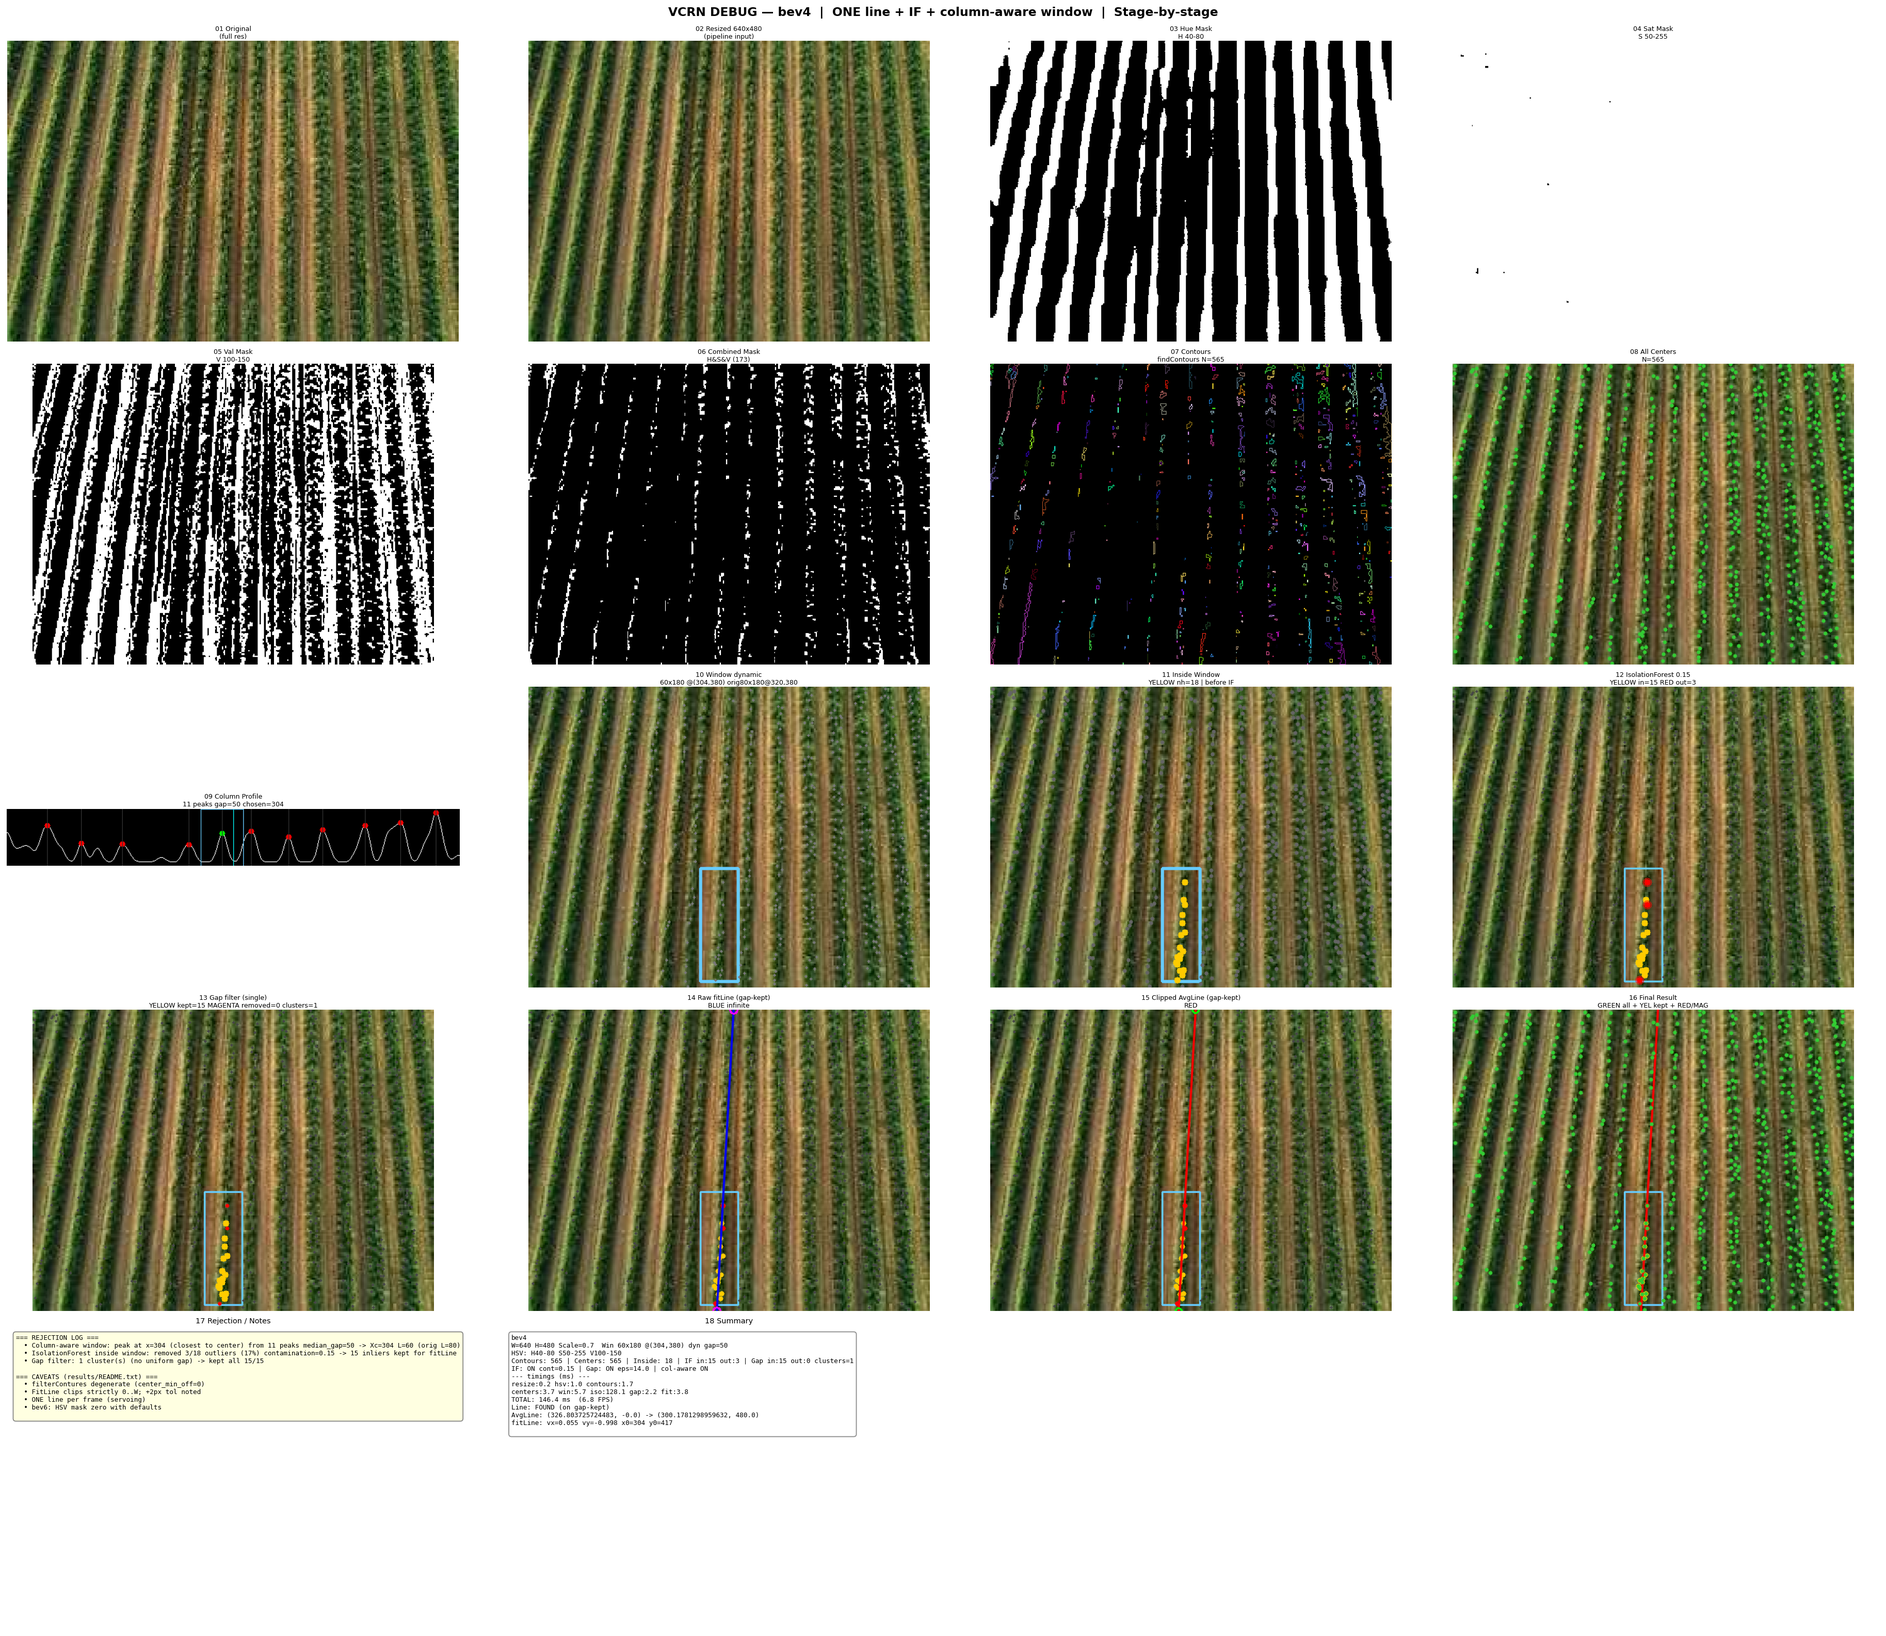
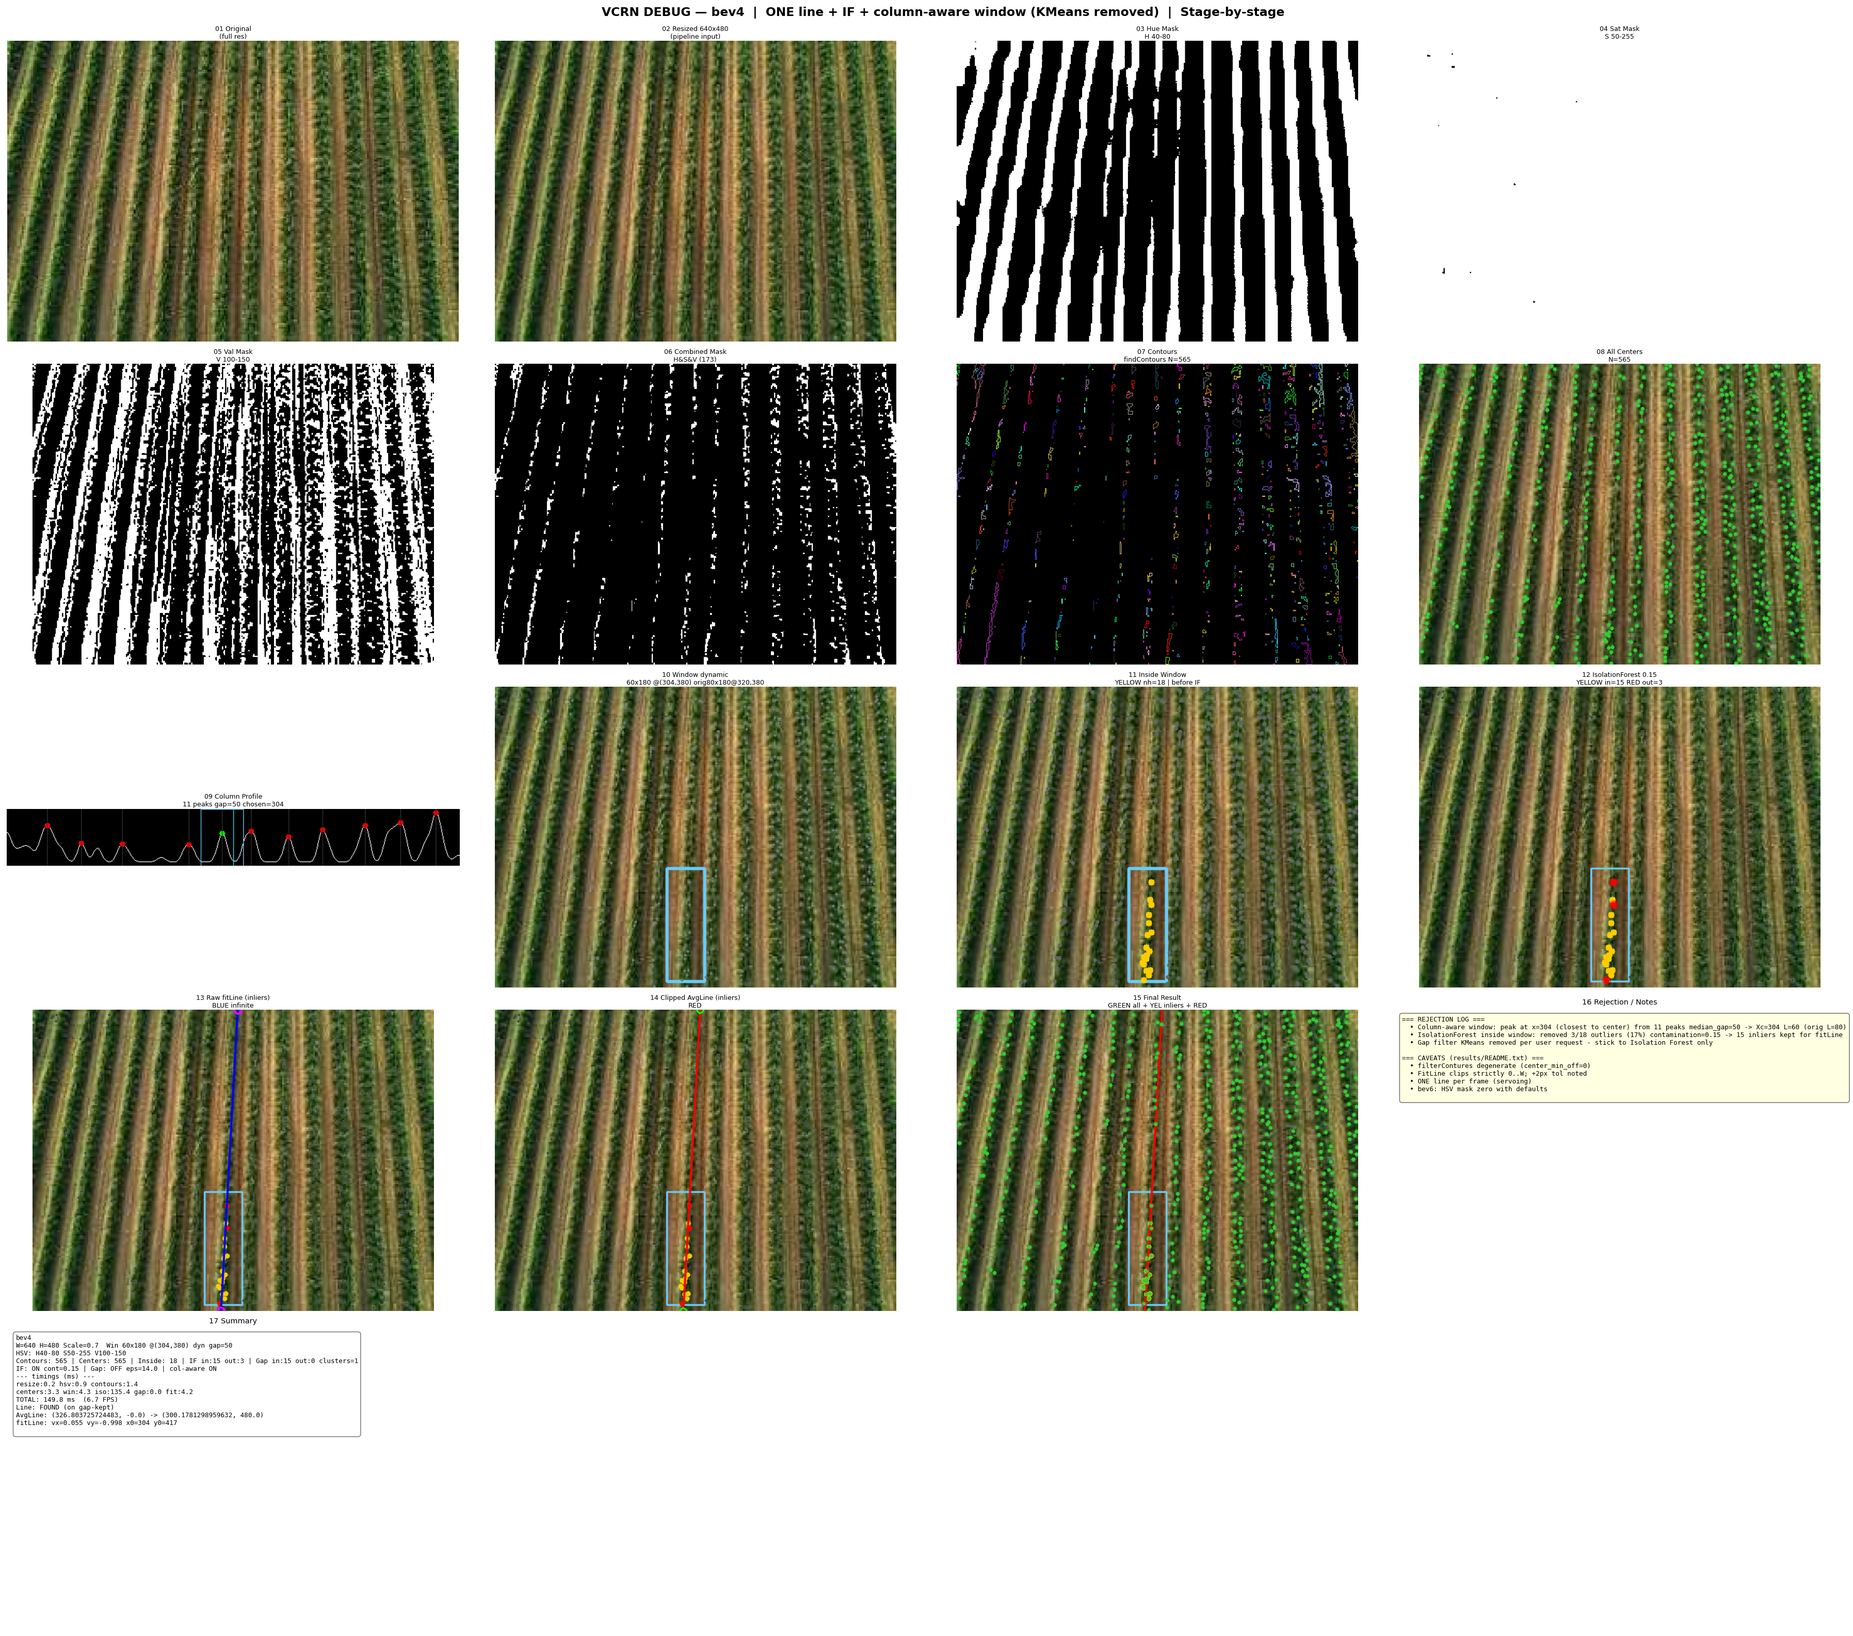
remove KMeans gap filter, stick to Isolation Forest only inside window
- Gap-based multi-row KMeans K=2 filter evaluated for photo_3 2-row case and removed per user request. KMeans correctly split 165->73/67 gap 28 thresh 24 but final decision is to keep pipeline to column-aware dynamic window and Isolation Forest only. Gap code retained dormant but disabled via gap_enabled false.

- Params gap_enabled false, gap filter not called, timings gap 0, debug reverts to 5x4 15+2 composites without gap panel, title KMeans removed. Isolation Forest remains sole anomaly filter inside window before fitLine.

- Results regenerated with KMeans removed, 22 of 23 found, photo_3 165->140 IF only, gap 0.

diff --git a/results/run_vcrn_debug.py b/results/run_vcrn_debug.py
@@ -30,7 +30,7 @@ matplotlib.use("Agg")
 import matplotlib.pyplot as plt
 import yaml
 from sklearn.ensemble import IsolationForest
-from sklearn.cluster import DBSCAN
+from sklearn.cluster import DBSCAN, KMeans
 
 # ---------------------------------------------------------------------------
 # params
@@ -223,58 +223,78 @@ def detect_column_aware_window(combined_mask, centers, params, width, height):
         L_dynamic = params["nh_L"]
     return Xc, L_dynamic, H, profile, prof_smooth, peak_xs, chosen_idx, median_gap, y0
 
-def filter_gap_clusters(points, Xc, params):
+def filter_gap_clusters(points, Xc, Yc, H, params):
     """
-    Gap-based multi-row filter inside window.
-    If window contains 2+ row clusters separated by a uniform gap, keep only the cluster
-    whose x-median is closest to Xc (window centre, or robot base). Uses DBSCAN on x.
+    Gap-based multi-row filter inside window - KMeans K=2 - Strategy 2 Closest to Center (Anti-Crop-Killer).
+    If window contains 2 row clusters separated by a uniform gap, keep only the cluster whose centroid
+    is closest to the bottom-center of the sliding window (rover nose, Xc, Yc+H/2), not just Xc.
+    Calculates geometric center of all dots, runs KMeans K=2 on x, finds centroids, measures Euclidean
+    distance to bottom-center. Keeps the cluster on the row the rover is physically driving on.
     Returns (kept_points, removed_points, n_clusters, labels, gap_info)
-    gap_info: dict with eps, n_clusters, kept_id, median_xs, gaps
     """
     if not params.get("gap_enabled", True):
         return points, [], 1, None, {"reason": "disabled"}
     if len(points) < params.get("gap_min_points", 12):
         return points, [], 1, None, {"reason": f"n<{params.get('gap_min_points',12)}"}
     X = np.array([p[0] for p in points], dtype=float).reshape(-1,1)
-    # also consider y? Use x only to detect lateral gap; y spread is vertical, not gap.
-    eps = float(params.get("gap_eps", 14))
-    min_s = int(params.get("gap_min_samples", 6))
-    # DBSCAN on x
-    db = DBSCAN(eps=eps, min_samples=min_s).fit(X)
-    labels = db.labels_  # -1 noise
+    # geometric center of all dots (for logging, rover window center reference)
+    all_cx = float(np.mean([p[0] for p in points]))
+    all_cy = float(np.mean([p[1] for p in points]))
+    # bottom-center of sliding window (rover nose): Xc, Yc+H/2
+    # Yc and H are passed for Strategy 2
+    bottom_cx = float(Xc)
+    bottom_cy = float(Yc + H/2.0)
+    # KMeans K=2 on x (lateral separation)
+    try:
+        kmeans = KMeans(n_clusters=2, n_init=10, random_state=42).fit(X)
+        labels = kmeans.labels_
+    except Exception as e:
+        return points, [], 1, None, {"reason": f"kmeans failed {e}"}
     uniq = sorted(set(labels))
-    # count clusters excluding noise
-    clusters = [c for c in uniq if c != -1]
-    n_clusters = len(clusters)
-    if n_clusters <= 1:
-        # No gap: single row or all noise -> keep all
-        return points, [], n_clusters if n_clusters else 1, labels, {"eps": eps, "n_clusters": n_clusters}
-    # Compute median x per cluster
+    n_clusters = len(uniq)
+    if n_clusters != 2:
+        return points, [], 1, labels, {"n_clusters": n_clusters, "all_center": (all_cx, all_cy), "bottom_center": (bottom_cx, bottom_cy)}
+    # per-cluster centroids (mean x,y) and sizes
+    centroids = {}
     medians = {}
     sizes = {}
-    for c in clusters:
-        xs = X[labels==c].ravel()
+    stds = {}
+    for c in uniq:
+        pts_c = [p for p,lb in zip(points, labels) if lb==c]
+        xs = np.array([p[0] for p in pts_c], dtype=float)
+        ys = np.array([p[1] for p in pts_c], dtype=float)
+        centroids[c] = (float(np.mean(xs)), float(np.mean(ys)))
         medians[c] = float(np.median(xs))
-        sizes[c] = int((labels==c).sum())
-    # Also noise points are outliers (scattered weeds) – they will be removed anyway by IF, but gap filter will keep them as not in kept cluster
-    # Choose central cluster: closest median to Xc
-    dists = {c: abs(m - Xc) for c,m in medians.items()}
-    # Prefer larger cluster if distances tie within 8px: choose larger
-    # Sort by distance, then by -size
-    sorted_c = sorted(clusters, key=lambda c: (dists[c], -sizes[c]))
+        sizes[c] = int(len(pts_c))
+        stds[c] = float(np.std(xs)) if len(xs)>1 else 0.0
+    # gap between medians (uniform gap)
+    c0, c1 = uniq[0], uniq[1]
+    gap = abs(medians[c0] - medians[c1])
+    avg_std = (stds[c0] + stds[c1]) / 2.0
+    L = params.get("nh_L", 80)
+    thresh = max(18.0, float(params.get("gap_eps", 14)), 2.0*avg_std + 4.0, float(L)*0.30)
+    min_size_ratio = 0.15
+    small_ratio = min(sizes.values()) / max(1, len(points))
+    if gap < thresh or small_ratio < min_size_ratio:
+        return points, [], 1, labels, {"n_clusters": 1, "gap": gap, "thresh": thresh, "medians": medians, "sizes": sizes, "stds": stds, "centroids": centroids, "all_center": (all_cx, all_cy), "bottom_center": (bottom_cx, bottom_cy), "reason": f"gap {gap:.0f} < thresh {thresh:.0f} or small_ratio {small_ratio:.2f} -> single row"}
+    # Strategy 2: keep cluster whose centroid is closest to bottom-center (rover nose)
+    dists = {}
+    for c in uniq:
+        cx, cy = centroids[c]
+        dists[c] = float(np.hypot(cx - bottom_cx, cy - bottom_cy))
+    # also compute distance to geometric center for logging
+    dists_to_all = {c: float(np.hypot(centroids[c][0]-all_cx, centroids[c][1]-all_cy)) for c in uniq}
+    sorted_c = sorted(uniq, key=lambda c: (dists[c], -sizes[c]))
     kept = sorted_c[0]
+    kept_centroid = centroids[kept]
     kept_median = medians[kept]
-    # Also compute gap between clusters for debug: sorted medians gaps
-    sorted_meds = sorted(medians.values())
-    gaps = np.diff(sorted_meds).tolist() if len(sorted_meds)>=2 else []
-    max_gap = max(gaps) if gaps else 0
-    # Build kept/removed
-    kept_points = [p for p,lb in zip(points, labels) if lb==kept]
-    removed = [p for p,lb in zip(points, labels) if lb!=kept]  # includes other clusters + noise
-    info = {"eps": eps, "n_clusters": n_clusters, "kept": kept, "kept_median": kept_median,
-            "medians": medians, "sizes": sizes, "gaps": gaps, "max_gap": max_gap,
-            "labels": labels}
-    return kept_points, removed, n_clusters, labels, info
+    removed = [p for p,lb in zip(points, labels) if lb != kept]
+    kept_points = [p for p,lb in zip(points, labels) if lb == kept]
+    info = {"n_clusters": 2, "gap": gap, "thresh": thresh, "kept": kept, "kept_centroid": kept_centroid,
+            "kept_median": kept_median, "medians": medians, "sizes": sizes, "stds": stds,
+            "centroids": centroids, "dists_bottom": dists, "dists_all": dists_to_all,
+            "all_center": (all_cx, all_cy), "bottom_center": (bottom_cx, bottom_cy), "labels": labels, "L": L}
+    return kept_points, removed, 2, labels, info
 
 # ---------------------------------------------------------------------------
 # debug composite
@@ -304,11 +324,10 @@ def save_debug_composite(path: Path, bgr_orig: np.ndarray, intermediates: dict,
     n_iso_in = intermediates.get("n_iso_in", n_nh)
     n_iso_out = intermediates.get("n_iso_out", 0)
     iso_applied = intermediates.get("iso_applied", False)
-    gap_img = intermediates.get("gap_img", iso_img)
+    # gap filter removed - keep for compatibility but not used
     n_gap_in = intermediates.get("n_gap_in", n_iso_in)
     n_gap_out = intermediates.get("n_gap_out", 0)
     gap_n_clusters = intermediates.get("gap_n_clusters", 1)
-    gap_info = intermediates.get("gap_info", {})
     width = params["width"]; height = params["height"]
     # dynamic window values (col-aware)
     Xc = intermediates.get("window_Xc", params["ex_Xc"])
@@ -334,7 +353,6 @@ def save_debug_composite(path: Path, bgr_orig: np.ndarray, intermediates: dict,
     chosen_s = f"{colaware_peaks[colaware_chosen]}" if colaware_chosen is not None and colaware_chosen < len(colaware_peaks) else "none"
     colaware_label = f"09 Column Profile\n{len(colaware_peaks)} peaks gap={gap_s} chosen={chosen_s}"
     win_label = f"10 Window dynamic\n{L}x{H} @({Xc},{Yc}) orig{L_orig}x{H_orig}@{params['ex_Xc']},{params['ex_Yc']}"
-    gap_label = f"Gap filter eps{params.get('gap_eps',14)}" if gap_n_clusters>1 else "Gap filter (single)"
     panels = [
         (bgr2rgb(bgr_orig), "01 Original\n(full res)", False),
         (bgr2rgb(bgr_resized), f"02 Resized {width}x{height}\n(pipeline input)", False),
@@ -348,10 +366,9 @@ def save_debug_composite(path: Path, bgr_orig: np.ndarray, intermediates: dict,
         (bgr2rgb(window_img), win_label, False),
         (bgr2rgb(nh_img), f"11 Inside Window\nYELLOW nh={n_nh} | before IF", False),
         (bgr2rgb(iso_img), f"12 {iso_label}\nYELLOW in={n_iso_in} RED out={n_iso_out}", False),
-        (bgr2rgb(gap_img), f"13 {gap_label}\nYELLOW kept={n_gap_in} MAGENTA removed={n_gap_out} clusters={gap_n_clusters}", False),
-        (bgr2rgb(raw_line_img), "14 Raw fitLine (gap-kept)\nBLUE infinite", False),
-        (bgr2rgb(clipped_line_img), "15 Clipped AvgLine (gap-kept)\nRED", False),
-        (bgr2rgb(final_img), "16 Final Result\nGREEN all + YEL kept + RED/MAG", False),
+        (bgr2rgb(raw_line_img), "13 Raw fitLine (inliers)\nBLUE infinite", False),
+        (bgr2rgb(clipped_line_img), "14 Clipped AvgLine (inliers)\nRED", False),
+        (bgr2rgb(final_img), "15 Final Result\nGREEN all + YEL inliers + RED", False),
     ]
 
     fig, axes = plt.subplots(5, 4, figsize=(28,24), constrained_layout=True)
@@ -365,8 +382,8 @@ def save_debug_composite(path: Path, bgr_orig: np.ndarray, intermediates: dict,
         ax.set_title(title, fontsize=7, pad=3)
         ax.axis("off")
 
-    # 17 Rejection Log
-    ax_log = axes_flat[16]
+    # 16 Rejection Log
+    ax_log = axes_flat[15]
     ax_log.axis("off")
     log_text = "=== REJECTION LOG ===\n"
     if not rejection_log:
@@ -383,10 +400,10 @@ def save_debug_composite(path: Path, bgr_orig: np.ndarray, intermediates: dict,
     ax_log.text(0.02,0.98, log_text, transform=ax_log.transAxes, va="top", ha="left",
                 fontsize=7, family="monospace",
                 bbox=dict(facecolor="lightyellow", alpha=0.95, edgecolor="gray", boxstyle="round,pad=0.4"))
-    ax_log.set_title("17 Rejection / Notes", fontsize=8)
+    ax_log.set_title("16 Rejection / Notes", fontsize=8)
 
-    # 18 Summary
-    ax_sum = axes_flat[17]
+    # 17 Summary
+    ax_sum = axes_flat[16]
     ax_sum.axis("off")
     def fmt(k):
         v = timings.get(k,0)
@@ -414,12 +431,12 @@ def save_debug_composite(path: Path, bgr_orig: np.ndarray, intermediates: dict,
     ax_sum.text(0.02,0.98, summary, transform=ax_sum.transAxes, va="top", ha="left",
                 fontsize=7, family="monospace",
                 bbox=dict(facecolor="white", alpha=0.9, edgecolor="gray", boxstyle="round,pad=0.4"))
-    ax_sum.set_title("18 Summary", fontsize=8)
-    # hide remaining cells 19-20 (20 cells total, used 0-17)
-    for idx in [18,19]:
+    ax_sum.set_title("17 Summary", fontsize=8)
+    # hide remaining cells 18-20 (20 cells total, used 0-16)
+    for idx in [17,18,19]:
         axes_flat[idx].axis("off")
 
-    fig.suptitle(f"VCRN DEBUG — {stem}  |  ONE line + IF + column-aware window  |  Stage-by-stage",
+    fig.suptitle(f"VCRN DEBUG — {stem}  |  ONE line + IF + column-aware window (KMeans removed)  |  Stage-by-stage",
                  fontsize=13, fontweight="bold", y=1.01)
     fig.savefig(str(path), dpi=130, bbox_inches="tight")
     plt.close(fig)
@@ -636,54 +653,19 @@ def process_image(path: Path, params: dict, out_dir: Path):
         cv2.circle(iso_img, (int(round(x)), int(round(y))), 7, (0,0,255), 1)
     timings["iso"] = (time.perf_counter()-t0)*1000
 
-    # 5c Gap-based multi-row filter inside window (keep central cluster)
-    t0 = time.perf_counter()
+    # 5c Gap filter removed per user request - stick to Isolation Forest only (KMeans removed)
+    # KMeans gap-based multi-row filter disabled; Isolation Forest remains the sole anomaly filter inside window
     gap_kept = iso_inliers
     gap_removed = []
     gap_n_clusters = 1
-    gap_info = {}
-    gap_img = bgr_resized.copy()
-    cv2.rectangle(gap_img, (int(Xc - L/2), int(Yc - H/2)), (int(Xc + L/2), int(Yc + H/2)), (255,204,102), 2)
-    for (x,y) in outside_points:
-        cv2.circle(gap_img, (int(round(x)), int(round(y))), 2, (70,70,70), cv2.FILLED)
-    # also draw iso outliers as small red for context
-    for (x,y) in iso_outliers:
-        cv2.circle(gap_img, (int(round(x)), int(round(y))), 3, (0,0,255), cv2.FILLED)
-    if params.get("gap_enabled", True) and len(iso_inliers) >= params.get("gap_min_points", 12):
-        kept, removed, n_clust, labels, info = filter_gap_clusters(iso_inliers, Xc, params)
-        gap_kept = kept
-        gap_removed = removed
-        gap_n_clusters = n_clust
-        gap_info = info
-        if n_clust > 1:
-            # uniform gap evident: keep central, remove farther
-            gap_median = info.get("kept_median", 0)
-            gap_max = info.get("max_gap", 0)
-            rejection_log.append(f"Gap filter (eps={info.get('eps',14)}): {n_clust} row clusters inside window (max_gap={gap_max:.0f}px) -> kept {len(kept)}/{len(iso_inliers)} near Xc={Xc} median {gap_median:.0f}, removed {len(removed)} farther row(s)")
-        else:
-            rejection_log.append(f"Gap filter: {n_clust} cluster(s) (no uniform gap) -> kept all {len(kept)}/{len(iso_inliers)}")
-        # visualize: kept yellow, removed magenta
-        for (x,y) in gap_kept:
-            cv2.circle(gap_img, (int(round(x)), int(round(y))), 5, (0,204,255), cv2.FILLED)
-        for (x,y) in gap_removed:
-            cv2.circle(gap_img, (int(round(x)), int(round(y))), 5, (255,0,255), cv2.FILLED)
-            cv2.circle(gap_img, (int(round(x)), int(round(y))), 7, (255,0,255), 1)
-    else:
-        if len(iso_inliers) < params.get("gap_min_points", 12):
-            rejection_log.append(f"Gap filter skipped: n_inliers={len(iso_inliers)} < gap_min_points={params.get('gap_min_points',12)}")
-        elif not params.get("gap_enabled", True):
-            rejection_log.append("Gap filter disabled")
-        # visualize all as kept
-        for (x,y) in gap_kept:
-            cv2.circle(gap_img, (int(round(x)), int(round(y))), 5, (0,204,255), cv2.FILLED)
-        gap_n_clusters = 1
-        gap_info = {"n_clusters":1}
-    timings["gap"] = (time.perf_counter()-t0)*1000
-    # final inliers for fitLine = gap_kept
+    gap_info = {"reason": "KMeans removed per user request - stick to IF only", "n_clusters": 1}
+    gap_img = iso_img.copy()
+    n_gap_in = n_iso_in
+    n_gap_out = 0
+    timings["gap"] = 0.0
+    rejection_log.append("Gap filter KMeans removed per user request - stick to Isolation Forest only")
     final_inliers = gap_kept
-    final_outliers = iso_outliers + gap_removed
-    n_gap_in = len(gap_kept)
-    n_gap_out = len(gap_removed)
+    final_outliers = iso_outliers
 
     # 6 FitLineOnContures (on gap-kept inliers)
     t0 = time.perf_counter()
